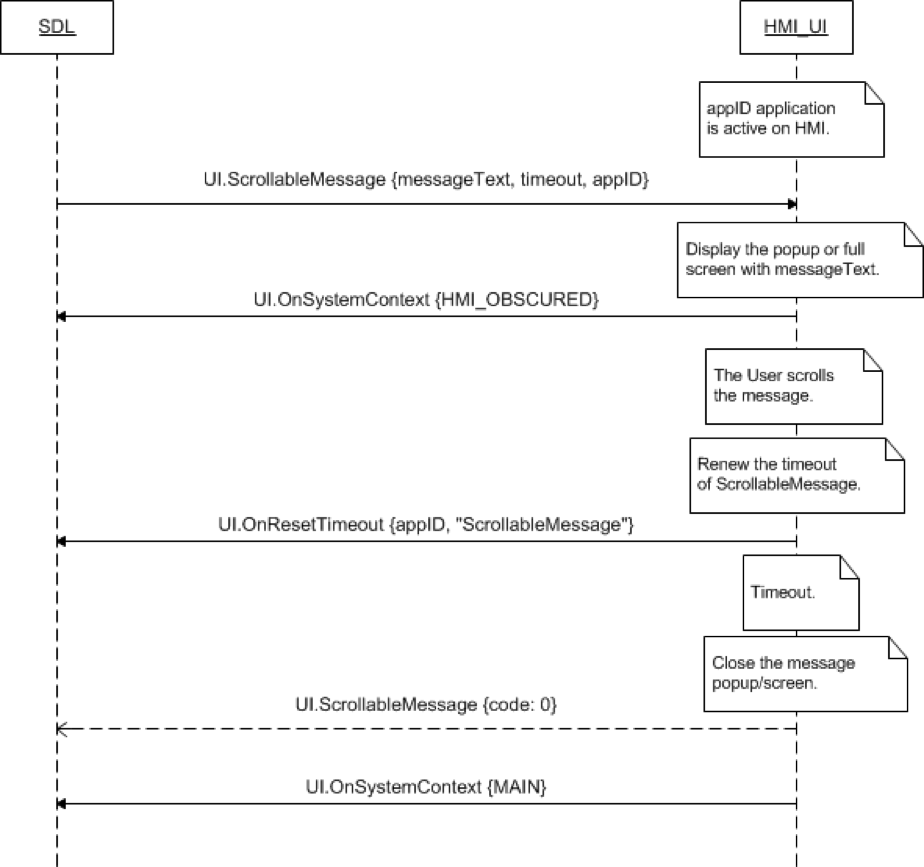
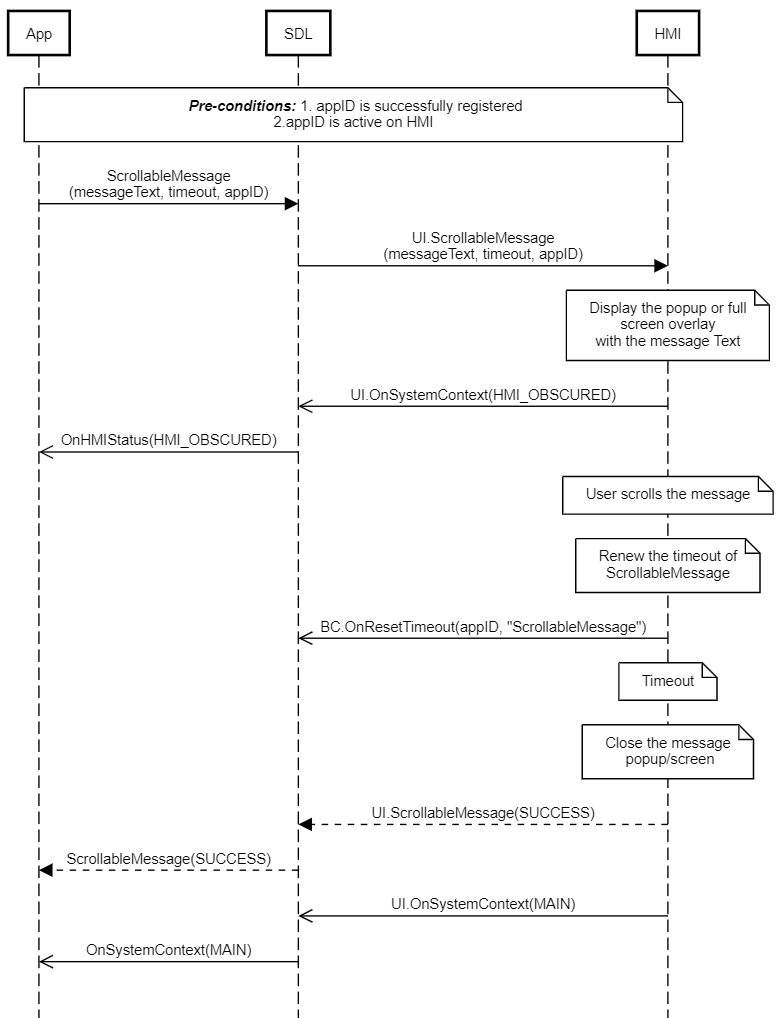
create BC.OnResetTimeout index.md update with OnResetTimeout note BasicCommunication/DialNumber/index.md Navigation/SendLocation/index.md RC/GetInteriorVehicleDataConsent/index.md RC/SetInteriorVehicleData/index.md UI/Alert/index.md UI/PerformInteraction/index.md UI/ScrollableMessage/assets/Scrollab

diff --git a/docs/BasicCommunication/OnResetTimeout/index.md b/docs/BasicCommunication/OnResetTimeout/index.md
@@ -1,0 +1,60 @@
+## OnResetTimeout
+
+Type
+: Notification
+
+Sender
+: HMI
+
+Purpose
+: Inform SDL about RPC instance for which timeout needs to be reset 
+
+### Notification
+HMI can send this notification used by functions in all interfaces to notify that timeout needs to be reset.
+
+!!! must
+  * send OnResetTimeout to SDL in case HMI needs more time for processing a request from mobile application
+  * fine tune the wait time per method call as needed
+  * control number of reset timeouts and duration of each reset timeout for endless or finite method timeout
+
+!!!
+
+HMI can send OnResetTimeout to inform SDL that the timeout of **UI RPC** is reset by definite User's actions.
+
+!!! must
+  * send OnResetTimeout to SDL upon every Users keypress processing UI.PerfromInteraction(layoutMode:KEYBOARD) request 
+  * send OnResetTimeout to SDL upon Users actions over the message (e.g. scrolling) processing UI.ScrollableMessage request
+  * send OnResetTimeout to SDL upon KEEP_CONTEXT soft button (defined within UI.ScrollableMessage RPC) press
+!!!
+
+HMI can send OnResetTimeout to reset the timeout for some **TTS RPC** running on HMI (e.g.Speak).  
+SDL's default timeout for any response from HMI is 10 seconds. So it needs to know if some TTS RPC is still running on HMI to predict sending wrong response by timeout. OnResetTimeout notifies SDL to reset the timeout for some TTS RPC running on HMI (e.g.Speak).
+
+!!! must
+  * send OnResetTimeout to SDL in case HMI speak event lasts longer than 10 seconds
+!!!
+
+_Note: Currently there is no version negotiation between HMI and Core, so older HMI implementations will not work with this new version of Core._
+
+#### Parameters
+|Name|Type|Mandatory|Additional|
+|:---|:---|:--------|:---------|
+|requestID|Integer|true|minvalue="0" maxvalue="65535"|
+|methodName|String|true||
+|resetPeriod|Integer|false| minvalue="0" maxvalue="1000000" |
+
+### Sequence Diagrams
+
+#### JSON Example Notification
+```json
+{
+  "jsonrpc" : "2.0",
+  "method" : "BC.OnResetTimeout",
+     "params" :
+  {
+    "requestID" : 123,
+    "methodName" : "TTS.Speak",
+    "resetPeriod" : 10000
+  }
+}
+```

diff --git a/docs/UI/Alert/index.md b/docs/UI/Alert/index.md
@@ -16,9 +16,10 @@ SDL sends the `UI.Alert` RPC when some information needs to be displayed to the 
   1. If the alert includes a soft button of type `STEAL_FOCUS` and the user presses the button, the HMI must bring the app associated with the Alert into full screen mode.
   2. The HMI must send [UI.OnSystemContext](../onsystemcontext) with type `ALERT` for the application which is in `FULL` mode.
   3. Respond to the Alert earlier than SDL's default timeout of 10 seconds - applicable only to alerts without `softButtons`.
-  4. Display the alert dialog with the text information in the `alertFields` array and optional `softButtons` and optional `displayIndicator` indicating a timeout for the alert
-  5. Send [Buttons.OnButtonPress](../../buttons/onbuttonpress) and/or [Buttons.OnButtonEvent](../../buttons/onbuttonevent) notifications if soft buttons associated with the alert are pressed by the user
-  6. Dismiss the alert after the duration has passed since receipt of the request
+  4. Display the alert dialog with the text information in the `alertFields` array and optional `softButtons` and optional `displayIndicator` indicating a timeout for the alert.
+  5. Send [Buttons.OnButtonPress](../../buttons/onbuttonpress) and/or [Buttons.OnButtonEvent](../../buttons/onbuttonevent) notifications if soft buttons associated with the alert are pressed by the user.
+  6. Send [BC.OnResetTimeout](../../basiccommunication/onresettimeout) notification to SDL for reseting timeout, in case HMI needs more time for processing input from user for the request.
+  7. Dismiss the alert after the duration has passed since receipt of the request
 
 !!!
 

diff --git a/docs/Navigation/SendLocation/index.md b/docs/Navigation/SendLocation/index.md
@@ -12,11 +12,12 @@ Purpose
 ### Behavior
 
 !!! must  
-1.	 Transfer data received from SDL to navigation embedded module. Navigation embedded HU system should update the location data on the embedded navi screen.  
-2.	Send a `SUCCESS` response to SDL in case the destination data has been obtained.
-3.  Ignore`<deliveryMode>`, `<timeStampParams>`,`<address>` parameters  in case HMI does not support them  (note: app will not know whether the whole information was processed by HMI)
-4.  Respond with `WARNINGS` and “info: were not processed”” to SDL in case HMI partially supports `<deliveryMode>`, `<timeStampParams>`,`<address>`(SDL will transfer it to mobile app)
+1. Transfer data received from SDL to navigation embedded module. Navigation embedded HU system should update the location data on the embedded navi screen.  
+2. Send a `SUCCESS` response to SDL in case the destination data has been obtained.
+3. Ignore`<deliveryMode>`, `<timeStampParams>`,`<address>` parameters  in case HMI does not support them  (note: app will not know whether the whole information was processed by HMI)
+4. Respond with `WARNINGS` and “info: were not processed”” to SDL in case HMI partially supports `<deliveryMode>`, `<timeStampParams>`,`<address>`(SDL will transfer it to mobile app)
 5. Respond with `REJECTED` result code to SDL in case HMI is currently busy with a higher-priority event or other reasons defined for the mentioned resultCode by HMI.
+6. Send OnResetTimeout notification to SDL for reseting timeout in case HMI needs more time for processing user's selection.
 
 ### Request
 

diff --git a/docs/UI/SubtleAlert/index.md b/docs/UI/SubtleAlert/index.md
@@ -19,7 +19,8 @@ SDL sends the `UI.SubtleAlert` RPC when some information needs to be displayed t
   4. Respond to the SubtleAlert earlier than SDL's default timeout of 10 seconds - applicable only to alerts without `softButtons`.
   5. Display the notification dialog with the text information in the `alertStrings` array and optional `softButtons`.
   6. Send [Buttons.OnButtonPress](../../buttons/onbuttonpress) and/or [Buttons.OnButtonEvent](../../buttons/onbuttonevent) notifications if soft buttons associated with the notification are pressed by the user.
-  7. Dismiss the alert after the duration has passed since receipt of the request and send a `TIMED_OUT` response to SDL.
+  7. Send BC.OnResetTimeout notification to SDL for reseting timeout in case HMI needs more time for processing UI.SubtleAlert request.
+  8. Dismiss the alert after the duration has passed since receipt of the request and send a `TIMED_OUT` response to SDL.
 
 !!!
 

diff --git a/docs/BasicCommunication/DialNumber/index.md b/docs/BasicCommunication/DialNumber/index.md
@@ -26,6 +26,7 @@ SDL looks to see if the phone number entered is correct before passing to the HM
   3. Send the notification BC.OnOnPhoneCall(isActive:true) to SDL when the phone call is started on the HMI.
   3. Send the notification BC.OnOnPhoneCall(isActive:false) to SDL when the phone call is ended on the HMI.
   4. Always respond to BC.DialNumber with a response code. If the HMI does not respond, the mobile application will never get a response from from SDL because default timeouts do not apply to the DialNumber mobile API.
+  5. Send BC.OnResetTimeout notification to SDL for reseting timeout in case HMI needs more time for processing BC.DialNumber request.
 
 !!!
 

diff --git a/docs/UI/PerformInteraction/index.md b/docs/UI/PerformInteraction/index.md
@@ -14,7 +14,7 @@ A request sent by SDL to display a list of choices to the user.
 !!! must
 
   1. Display the choices in `choiceSet` to the user reasonably according to the `interactionLayout`
-  2. Wait until the user responds or the request times out to respond to SDL
+  2. Wait until the user responds or send BC.OnResetTimeout notification to SDL for reseting timeout in case HMI needs more time to get input from user
   3. Include the `choiceID` of the chosen option (or `manualTextEntry` when using `KEYBOARD` layout) in the response to SDL
   4. If the interaction times out, respond with a success and no `choiceID` parameter to SDL
 

diff --git a/docs/RC/GetInteriorVehicleDataConsent/index.md b/docs/RC/GetInteriorVehicleDataConsent/index.md
@@ -21,7 +21,8 @@ The driver is expected to have an ability to grant or deny the permission.
 !!! must
 1. HMI must prompt user to make selection of resource allocation
 2. Respond to SDL with user choice within RC.GetInteriorVehicleDataConsent response
-3. If user didn't make choice send GENERIC_ERROR to SDL
+3. Send BC.OnResetTimeout notification to SDL for reseting timeout in case HMI needs more time for processing RC.GetInteriorVehicleDataConsent request
+4. Send TIMED_OUT to SDL if user didn't make choice after default timeout expires
 !!!
 
 ### Request

diff --git a/docs/VR/AddCommand/index.md b/docs/VR/AddCommand/index.md
@@ -43,6 +43,8 @@ During data resumption SDL sends VR.AddCommands to HMI by `internal_consecutiveN
 
 ### Response
 
+In case HMI needs more time for processing VR.AddCommand request (because of big number of `vrCommands`), HMI must send OnResetTimeout notification to SDL for reseting timeout.
+
 #### Parameters
 
 This RPC has no additional parameter requirements

diff --git a/docs/RC/SetInteriorVehicleData/index.md b/docs/RC/SetInteriorVehicleData/index.md
@@ -31,6 +31,8 @@ RC.SetInteriorVehicleData represents a request from an application to change set
 
 ### Response
 
+In case HMI needs more time for processing RC.SetInteriorVehicleData request, HMI must send BC.OnResetTimeout notification to SDL for reseting timeout.
+
 #### Parameters
 
 |Name|Type|Mandatory|Additional|Description|

diff --git a/docs/UI/ScrollableMessage/index.md b/docs/UI/ScrollableMessage/index.md
@@ -23,6 +23,8 @@ Purpose
 
 ### Response
 
+In case HMI needs more time to get input from user for processing UI.ScrollableMessage request, HMI must send BC.OnResetTimeout notification to SDL for reseting timeout.
+
 #### Parameters
 
 This RPC has no additional parameter requirements

diff --git a/docs/UI/Slider/index.md b/docs/UI/Slider/index.md
@@ -25,6 +25,8 @@ Purpose
 
 ### Response
 
+In case HMI needs more time to get input from user for processing UI.Slider request, HMI must send BC.OnResetTimeout notification to SDL for reseting timeout. 
+
 #### Parameters
 
 |Name|Type|Mandatory|Additional|
